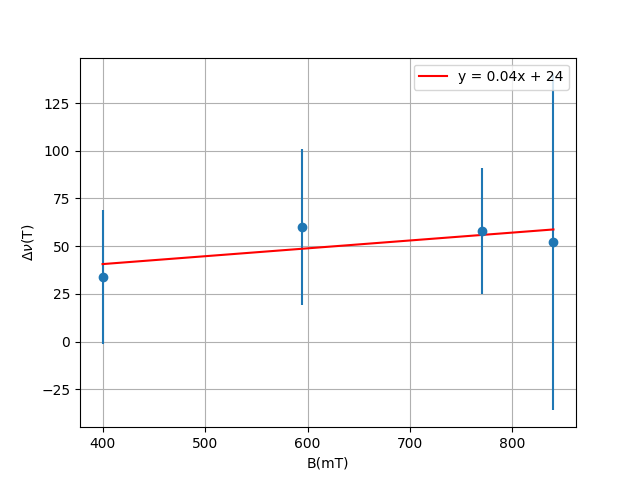
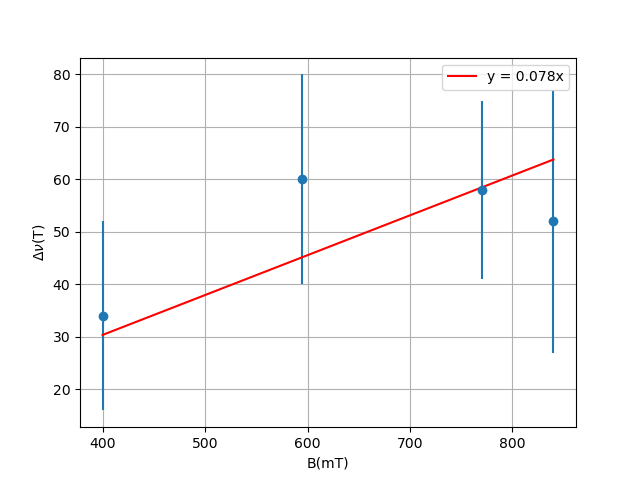
06

diff --git a/06/grafica.py b/06/grafica.py
@@ -10,13 +10,13 @@ y1 = df["mu"].tolist()
 y2 = df["error_mu"].tolist()
 
 
-
-result = sc.stats.linregress(x,y1)
-
-print([result.slope,result.stderr],[result.intercept,result.intercept_stderr])
+a = np.sum(np.array(x) * np.array(y1)) / np.sum(np.array(x) ** 2)
+residuos = np.array(y1) - a * np.array(x)
+sigma_a = np.sqrt(np.sum(residuos**2) / ((3 - 1) * np.sum(np.array(x)**2)))
+print(a,sigma_a)
 
 plt.errorbar(x,y1,fmt = "o",yerr=y2)
-plt.plot(x,result.slope*np.array(x)+result.intercept,"r",label="y = 0.04x + 24")
+plt.plot(x,a*np.array(x),"r",label="y = 0.078x")
 plt.ylabel("$\Delta\\nu$(T)")
 plt.xlabel("B(mT)")
 
